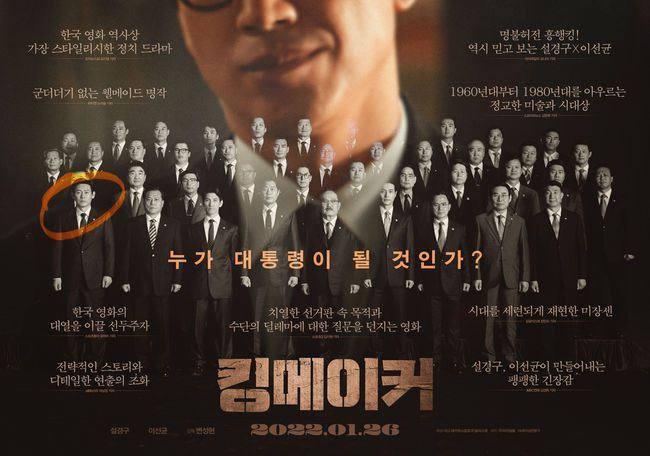
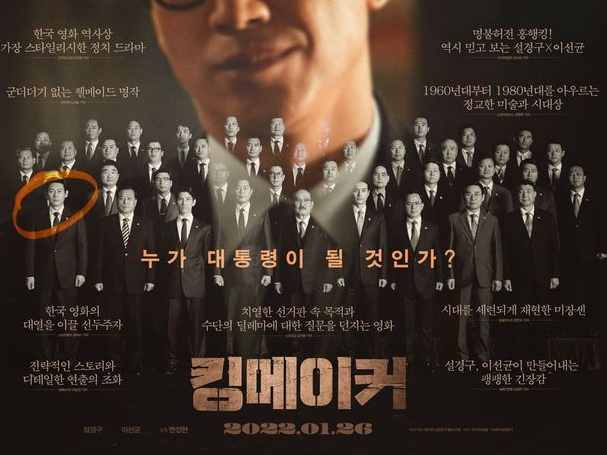
kp main page

diff --git a/reviews/templates/reviews/main.html b/reviews/templates/reviews/main.html
@@ -4,13 +4,13 @@
 <div id="carouselExampleControls" class="carousel slide carousel-fade" data-bs-ride="carousel">
     <div class="carousel-inner">
         <div class="carousel-item active">
-            <img src="{% static 'images/poster1.jpg' %}" class="d-block w-100" style="height: 500px;" alt="...">
+            <img src="{% static 'images/poster1.jpg' %}" class="d-block w-100" alt="...">
         </div>
         <div class="carousel-item">
-            <img src="{% static 'images/poster2.jpg' %}" class="d-block w-100" style="height: 500px;" alt="...">
+            <img src="{% static 'images/poster2.jpg' %}" class="d-block w-100" alt="...">
         </div>
         <div class="carousel-item">
-            <img src="{% static 'images/poster3.jpeg' %}" class="d-block w-100" style="height: 500px;" alt="...">
+            <img src="{% static 'images/poster3.jpeg' %}" class="d-block w-100" alt="...">
         </div>
     </div>
     <button class="carousel-control-prev" type="button" data-bs-target="#carouselExampleControls" data-bs-slide="prev">

diff --git a/templates/base.html b/templates/base.html
@@ -13,7 +13,7 @@
 </head>
 
 <body>
-    <nav class="navbar navbar-expand-lg navbar-black text-bg-dark p-0 p-lg-0">
+    <nav class="navbar navbar-expand-lg navbar-dark text-bg-dark p-0 p-lg-0">
         <div class="container-fluid">
             <a class="navbar-brand" href="{% url 'reviews:main' %}">
                 <img class="" src="{% static 'images/KPJSBY_Cinema.jpg' %}" alt="logo" height="60">
